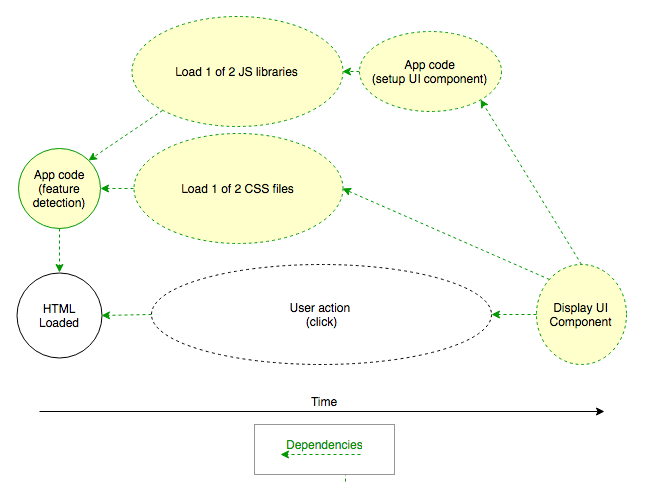
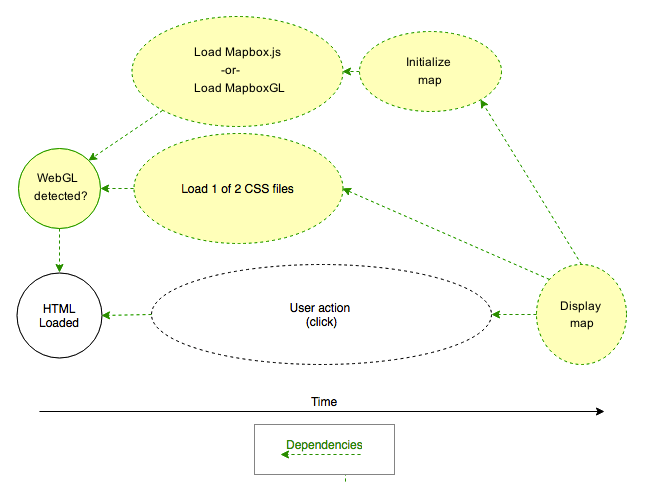
use specific example from RentPath

diff --git a/articles/webpack_tboyd/article.md b/articles/webpack_tboyd/article.md
@@ -91,7 +91,7 @@ This allows Webpack to automate some of the complexity of this task, as we'll se
 
 ## How to load assets in Webpack
 
-As of 2014, there were two main styles for importing Javascript modules: CommonJS and AMD. Webpack incorporates these two styles, as shown below:
+As of 2014, there were two main styles for importing Javascript modules: CommonJS and AMD. Webpack incorporates these two styles, as shown below. A new style, ES6's import syntax, became popular in 2015, which is planned for Webpack 2, but we'll leave that aside for now.
 
 ```javascript
 // CommonJS:
@@ -107,11 +107,11 @@ define([“icon.png”, “stylesheet.css”], function(icon, stylesheet) {
 });
 ```
 
-`define` and `require.ensure` are used by Webpack to draw its internal dependency tree for your system of asset files. This tree can be arbitrarily complex, and produces fruits called chunks.
+`define` and `require.ensure` are used by Webpack to draw its internal dependency tree for your system of asset files. This tree can be arbitrarily complex, and produces asset bundles ("chunks") according to a configurable set of rules.
 
-A chunk is a bundle of Javascript that contains a set of asset files. If you run Webpack with `--display-chunks`, you will see Webpack concatenate all of your assets into a single chunk by default. This is how most people have managed large Javascript projects in the past. But ever since mobile devices have taken over the internet, that behavior is no longer optimal. That’s where split points come in.
+If you run Webpack with `--display-chunks`, you will see Webpack concatenate all of your assets into a single chunk by default. This is how most people have managed large Javascript projects in the past. But ever since mobile devices have taken over the internet, that behavior is no longer optimal. That’s where split points come in.
 
-Your split points are the points in your code where Webpack encounters a define or require.ensure. These are places where Webpack knows it can separate a piece of code into separate chunks. The genius of Webpack is that split points don’t necessarily follow file boundaries, but are entirely up to the developer; one file can have a single split point at the top, or it can have several. The result is greater flexibility in loading your assets. You can have sections of your code block the rendering of the page, while other sections load concurrently in the background. Again, this is crucial in 2016 when you have to support a range of devices with unpredictable connectivity.
+Your split points are the points in your code where Webpack encounters a `define` or `require.ensure`. These are places where Webpack knows it can separate a piece of code into separate chunks. The genius of Webpack is that split points don’t necessarily follow file boundaries, but are entirely up to the developer; one file can have a single split point at the top, or it can have several. The result is greater flexibility in loading your assets. You can have sections of your code block the rendering of the page, while other sections load concurrently in the background. This is called progressive enhancement, a crucial technique now that you have to support a range of devices with unpredictable connectivity.
 
 If you were to try to do this manually using the full range of static and dynamic techniques for progressive enhancement, you would end up with a mess. Webpack automates this process and gives it a predictable structure, illustrated below:
 
@@ -123,55 +123,88 @@ When I first heard about Webpack processing SCSS into CSS, then transforming it 
 
 The answer is that Webpack assumes some complexities, like CSS preprocessors, CJS/AMD/ES6 module syntax, and asynchronous loading logic, for one simple reason: to automatically chunk interdependent assets together, no matter what they are. Once you understand this, you accept the complexity as a necessary evil in order to achieve this extremely ambitious goal.
 
-For example, say your site’s assets are arranged in this dependency graph:
+We used Webpack's *dynamic require* feature to solve a tricky problem during the migration from Google Maps to Mapbox. On most pages, we were hiding the map behind a user click to decouple the costly Google Maps setup code from the initial page load, and used a dynamic loading snippet provided by Google to manage this process.
+
+Mapbox does not provide a dynamic loading snippet, so writing that code became our responsibility. To make things even more complicated, Mapbox actually provides two separate libraries with different APIs, Mapbox.js and MapboxGL, depending whether the user agent supports WebGL.
+
+The challenge quickly became: how to preserve the dynamic loading of the map code, while adding an extra feature detection step to choose the library? Webpack to the rescue!
 
 ![Figure Three: Asset dependency graph](image3.png)
 
-In short, you have a component, shown only after a user action, that is dependent on one of two possible libraries chosen through feature detection. This highly synchronous process is made up of a chain of practically unpredictable events, which I’ve marked with dotted lines. You don’t know when the user is going to click the button, you don’t know when the JS and CSS libraries will finish loading, and you don’t know how long the setup code will take on the user’s device. The only thing you can really guarantee is the loading of the HTML and the feature detection code. But you want each of these processes to:
+Let's analyze the problem system by piece. In short, you have a component (the map), shown only after a user action (a click), that is dependent on one of two possible libraries chosen through feature detection (Mapbox.js or MapboxGL). This highly synchronous process is made up of a chain of practically unpredictable events, which I’ve marked with dotted lines. You don’t know when the user is going to click the button, you don’t know when the JS and CSS libraries will finish loading, and you don’t know how long the setup code will take on the user’s device. The only thing you can really guarantee is the loading of the HTML and the feature detection code. But you want each of these processes to:
 
 1. Be in the right order.
 2. Be as concurrent as possible.
 3. Happen only once.
 
-In the past, you might solve this problem with dynamic loading techniques like passing callbacks, dynamically creating script tags, keeping track of state through booleans scattered throughout your code, and so on. You might end up with a sloppy state machine scattered across about 5 files that is still slow and vulnerable to race conditions.
+In the past, you might solve this problem with dynamic loading techniques like passing callbacks, dynamically creating script tags, keeping track of state through booleans scattered throughout your code, and so on. You might end up with a sloppy state machine scattered across about 5 files that is still slow and vulnerable to race conditions. In fact, this describes our first pass.
 
-By virtue of its universal abstraction, Webpack handles this part for you. All you have to do is specify which sections of code depend on which modules, using split points.
+But by virtue of its universal abstraction, Webpack handles all this for you. All you have to do is specify which sections of code depend on which modules, using split points. 
 
-Here’s one optimal solution to the problem above:
+The code below is very similar to our real solution using Webpack:
 
 ```javascript
 define([
-    'jquery',
-    'feature-detect'
+    'mapbox-gl-supported'
  ], function(
-    $,
-    featureDetect
+    isMapboxGlSupported
  ) {
-    var clickedComponent;
 
-    if(featureDetect()) {
-        clickedComponent = function() {
-           require(['setup-component-1'], function(setupComponent) {
-               setupComponent();
-           });
-       };
-       require(['setup-component-1'], function(setupComponent) {});
+    // the function that will load the map code and initialize
+    // the map, or if the map code has been loaded, just
+    // initialize the map.
+    var loadAndInitMap;
+
+    // feature detection -- webGL detected.
+    if(isMapboxGlSupported()) {
+
+        // here is where we make the initialization dependent
+        // on the loading of MapboxGL.
+        loadAndInitMap = function() {
+            require(['mapbox-gl'], function(initMap) {
+                initMap();
+            });
+        };
+
+        // once feature detection is complete, go ahead and start
+        // loading the MapboxGL library in the background. The
+        // inner initMap function is not called because we are
+        // saving it for when the user clicks.
+        require(['mapbox-gl'], function(initMap) {});
+
+    // feature detection -- webGL not detected.
     } else {
-       clickedComponent = function() {
-           require(['setup-component-2'], function(setupComponent) {
-               setupComponent();
-           });
-       };
-       require(['setup-component-2'], function(setupComponent) {});
-   }
 
-   $("button.display-component").click(clickedComponent);
+        // here is where we make the initialization dependent
+        // on the loading of Mapbox.js.
+        loadAndInitMap = function() {
+            require(['mapbox.js'], function(initMap) {
+                initMap();
+            });
+        };
+
+        // once feature detection is complete, go ahead and start
+        // loading the Mapbox.js library in the background. The
+        // inner initMap function is not called because we are
+        // saving it for when the user clicks.
+        require(['mapbox.js'], function(initMap) {});
+    }
+
+    // the user click will initialize the map, but wait until the 
+    // correct library has been loaded.
+    $(".map-container").click(loadAndInitMap);
 });
 ```
 
 Looks like regular Javascript written in the AMD style, right? It is, but Webpack has repurposed `require()` to define a split point, or a break in the synchronous flow of the code where assets can be split into separate chunks.
 
-But this doesn’t mean you have to write in AMD or limited to libraries written in AMD. Webpack also supports CommonJS-style modules, as well as modules that interact with globally scoped objects like `window`. Webpack even supports modules that use AMD or CommonJS incorrectly. You can mix and match all of these types of libraries in one code base, while writing your app code the way you prefer.
+In the words of an age gone by, "Look at all the things I'm *NOT* doing!" I'm not...
+
+* keeping track of when libraries are loaded.
+* making sure libraries are not loaded more than once.
+* worrying about race conditions.
+
+Pretty cool, huh?
 
 ## Set your publicPath
 
@@ -179,7 +212,7 @@ There is one slight caveat with this technique, and that comes into play when yo
 
 When using Webpack’s dynamic require as shown above, Webpack will automatically insert the necessary code into your app bundle to fetch and evaluate the deferred sections of code. This means Webpack needs to know the URL from which to pull this code, or else it will attempt to pull it by default from the relative root path. [The way to specify this is via the publicPath.](https://github.com/webpack/docs/wiki/configuration#outputpublicpath)
 
-This only becomes a concern once you use a dynamic require, so not every Webpack configuration will have the publicPath specified. Whenever you use this technique, you should be sure to check to make sure the publicPath is properly set.
+This only becomes a concern once you use dynamic requires as shown above. Not every Webpack configuration will have the publicPath specified. Whenever you use this technique, you should be sure to check to make sure the publicPath is properly set.
 
 ## Conclusion
 
